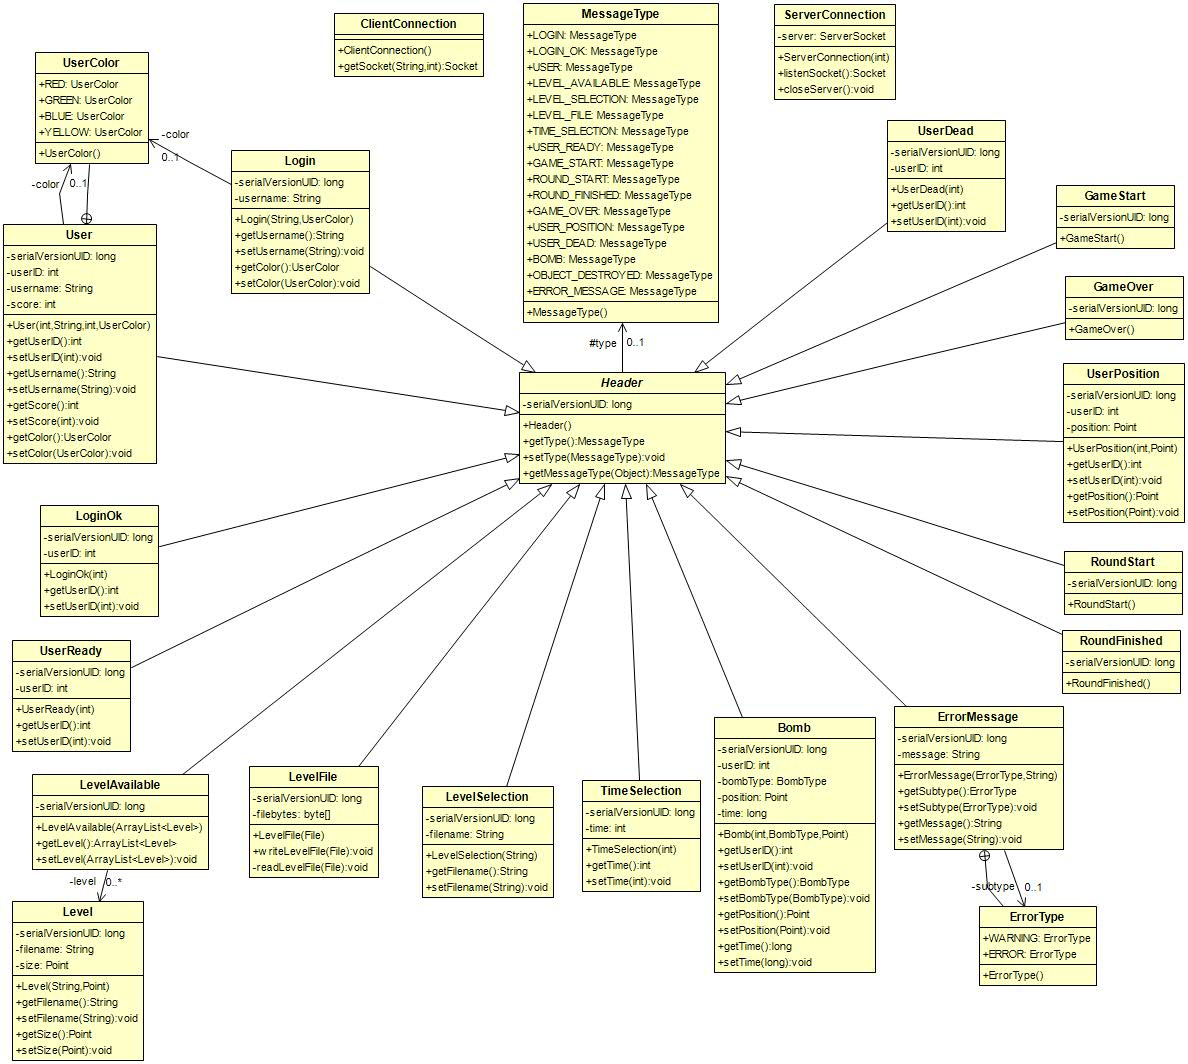
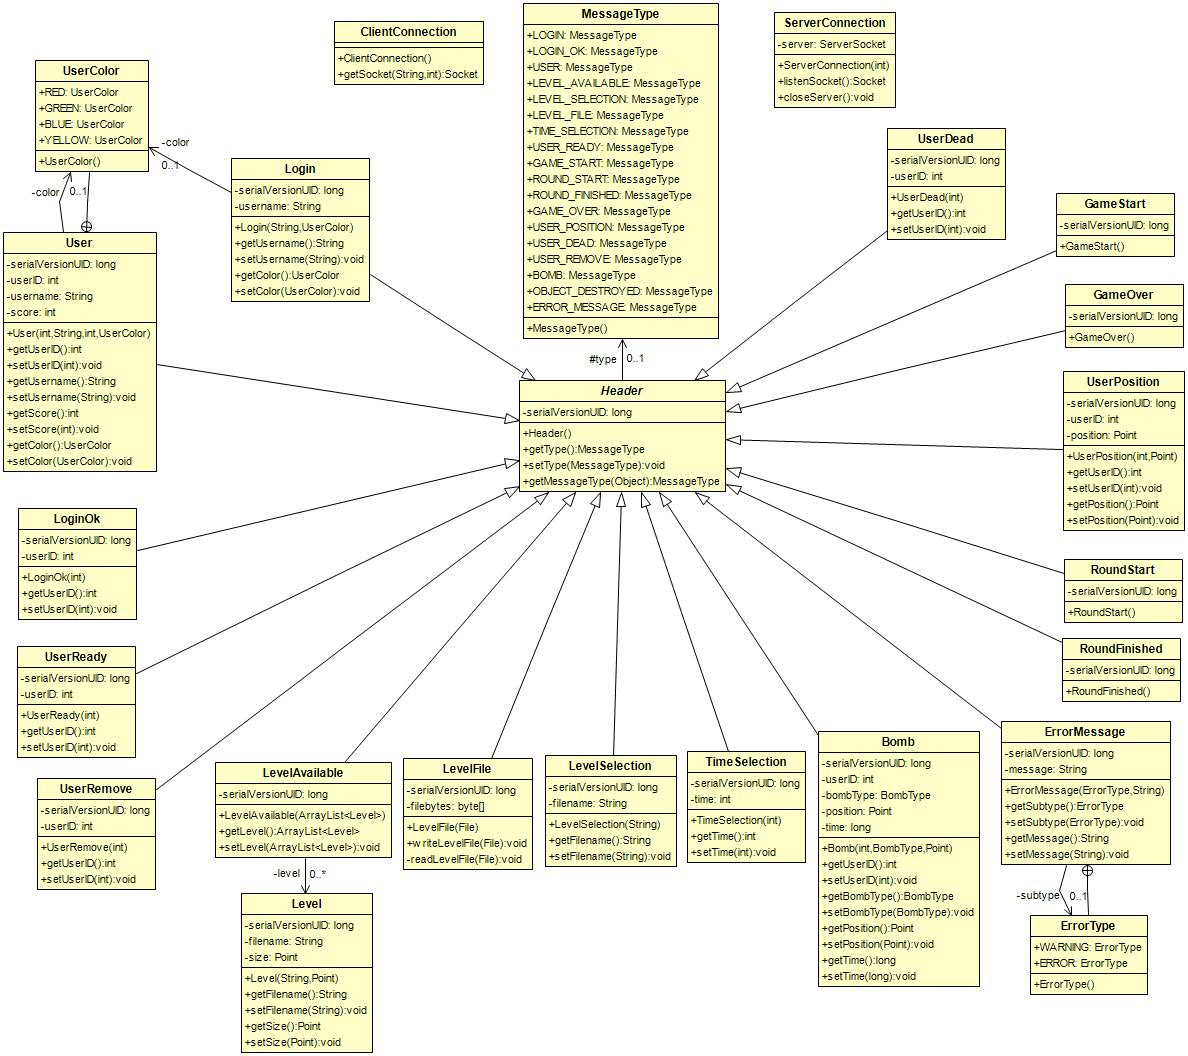
New level scheme and BaseModel improvements.

diff --git a/src/hrw/swenpr/bomberman/common/rfc/UserRemove.java b/src/hrw/swenpr/bomberman/common/rfc/UserRemove.java
@@ -4,7 +4,7 @@ import java.io.Serializable;
 
 /**
  * <p> C <=> S
- * {@link UserRemove} is sent from a client to the server, when he leaves the game/closes the software.
+ * <p>{@link UserRemove} is sent from a client to the server, when he leaves the game/closes the software.
  * The server forwards this message to the other clients to update the user tables.
  * 
  * @author Marco Egger
